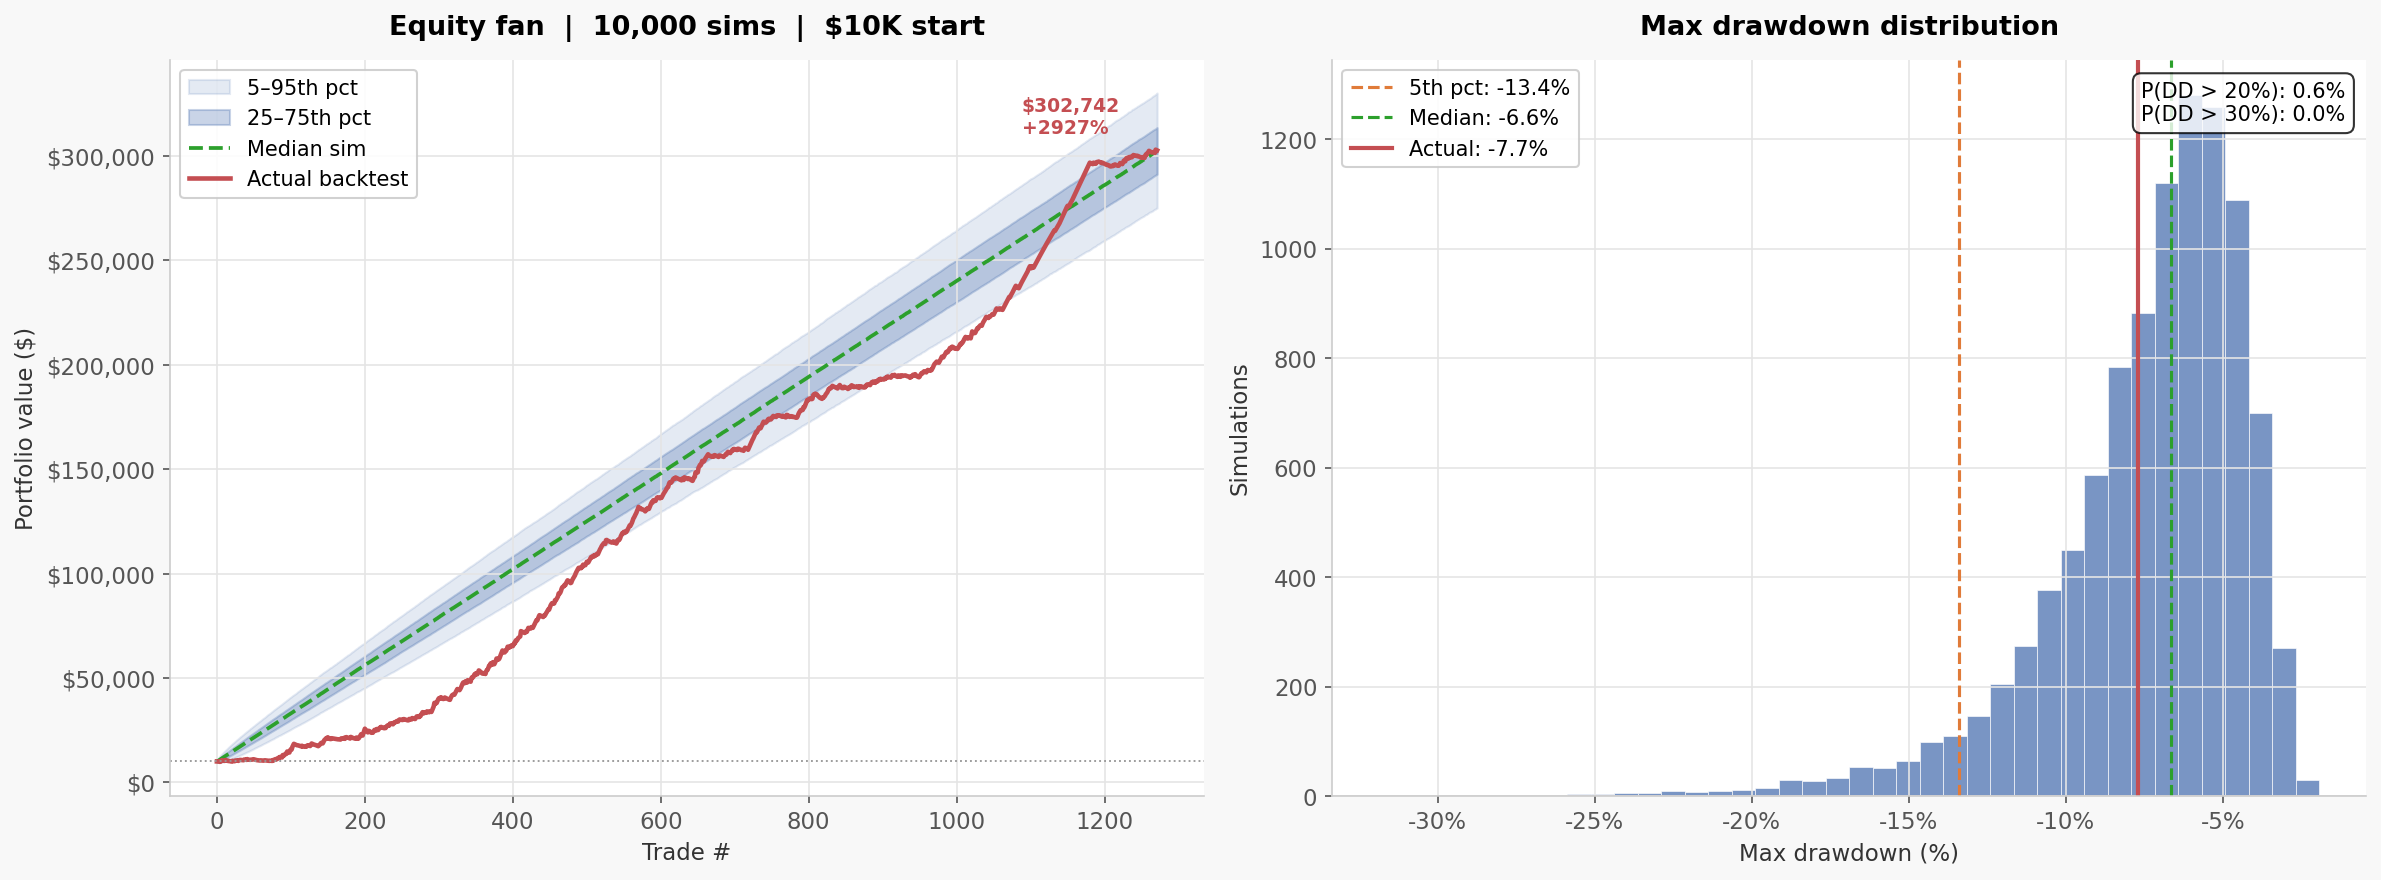
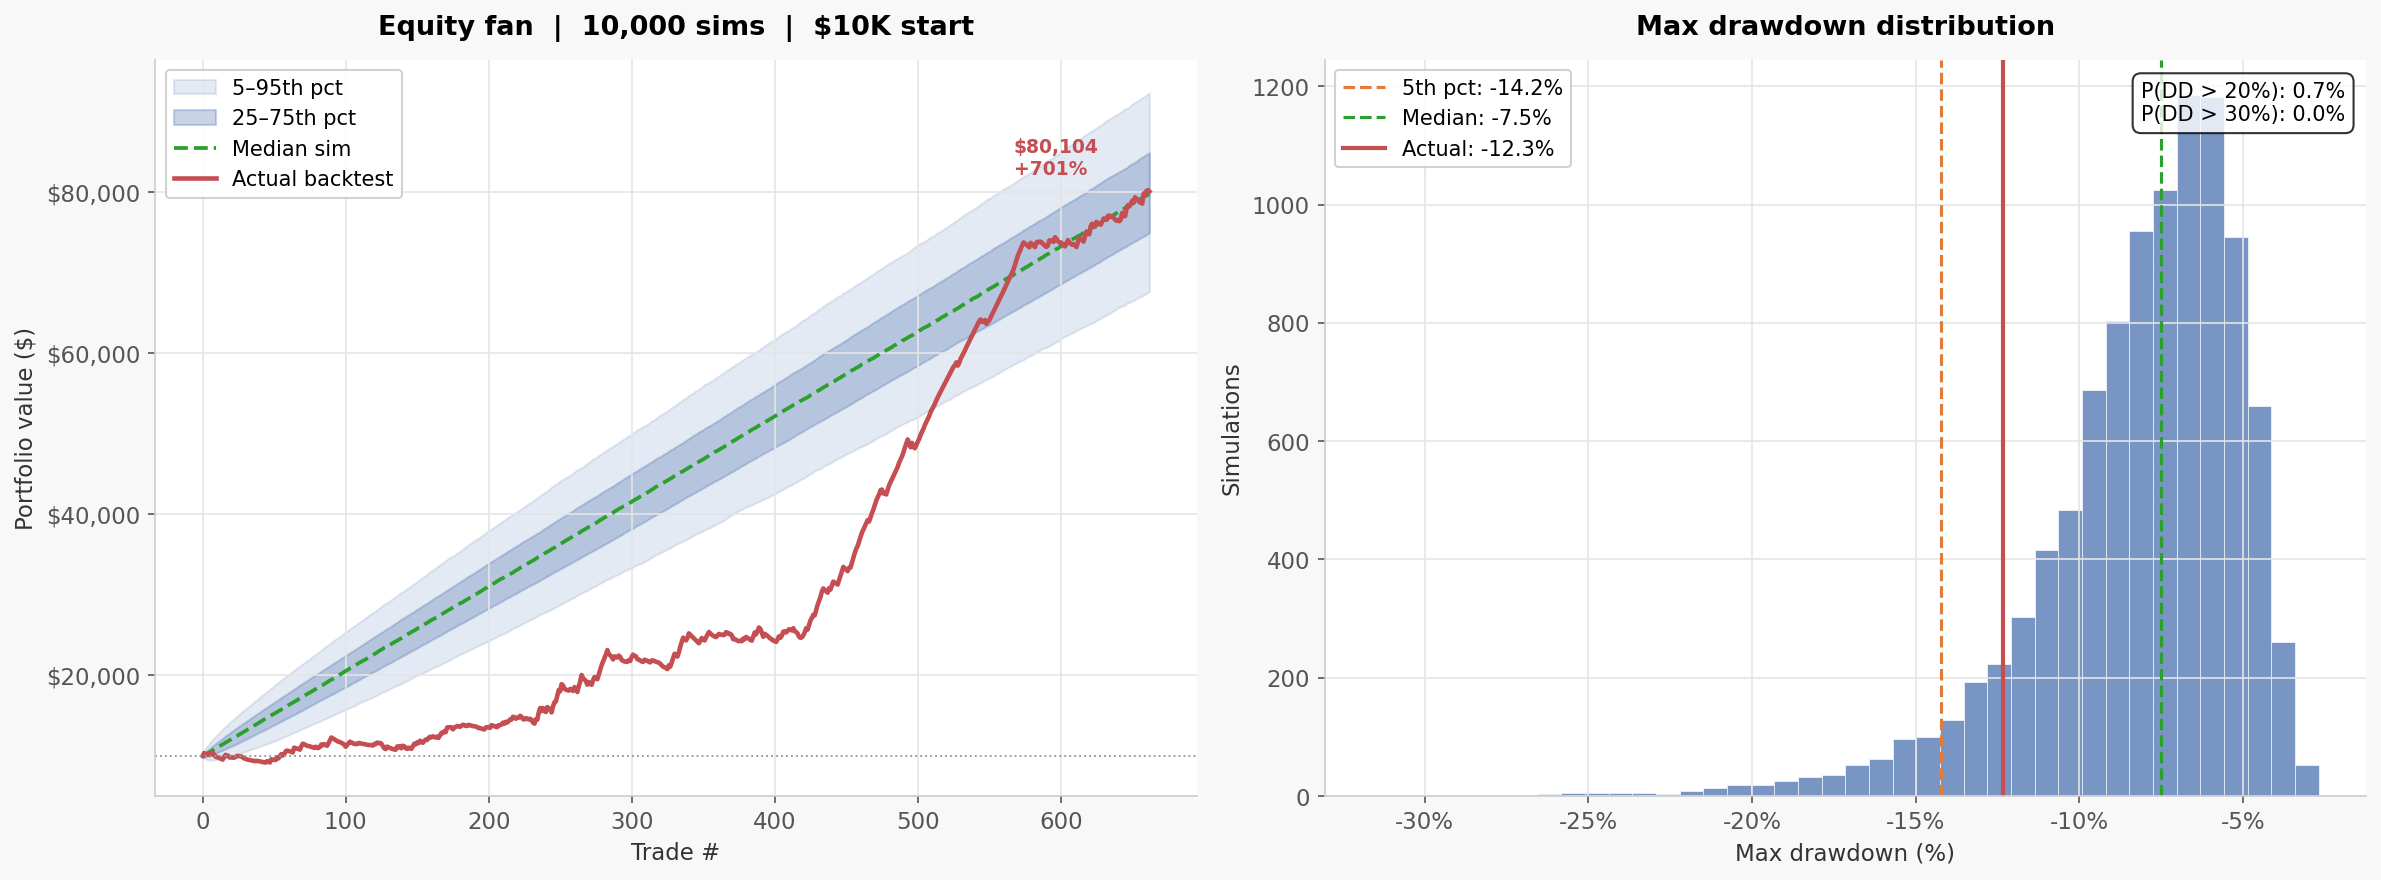
Add adverse-selection haircut to exit bids — fixes inflated backtest returns
Reported by @brandonmathewp: momentum_locked exits were priced from
DistModel.true_prob, which mechanically converges to 0/1 as hours_left→0
because vol_t = vol_h*sqrt(hours_left) → 0. Widening _exit_spread alone
didn't fix it — the exit bid was still ~$0.99 on any ITM contract in the
final minutes, making momentum_locked a 100%-WR profit factory that
carried the entire strategy in backtest.

Fix: new _exit_bid() applies an adverse-selection discount (up to 15%)
that grows as expiry nears AND as true_prob becomes extreme — the exact
regime where the old exit was fabricating profit. A real Kalshi maker
won't quote $0.98 on a 3-min-to-expiry ITM contract; a last-minute spot
move could still flip it. Intrabar-stop check also routes through
_exit_bid so stops fire on the same realistic price series.

Corrected 60-day backtest:
  Before: +2927% / Sharpe 7.09 / momentum_locked 506 trades @100% WR
  After:  +701%  / Sharpe 4.64 / momentum_locked 182 trades @100% WR
  Real edge survives; the previous headline was inflated ~4x.

diff --git a/kalshi_btc_backtest.py b/kalshi_btc_backtest.py
@@ -264,16 +264,37 @@ def _worst_spot(contract: dict, bar_close: float,
 
 
 def _exit_spread(true_p: float, hours_left: float) -> float:
-    """Bid/ask spread used to mark open positions to market. true_prob's
-    vol_t = vol_h * sqrt(hours_left) mechanically collapses to 0/1 as
-    hours_left -> 0, regardless of whether the model's drift/vol assumptions
-    are correct — there's no independent market price to disagree with it.
-    Real Kalshi liquidity thins out near settlement rather than vanishing, so
-    widen the spread as expiry nears instead of letting the model's own
-    certainty stand in for a realistic exit fill."""
+    """Bid/ask spread — widens near expiry to reflect thinning Kalshi
+    liquidity. NOT sufficient on its own to prevent model-priced exits
+    from looking artificially profitable — use _exit_bid() for that."""
     base  = 0.010 if true_p > 0.35 else 0.020 if true_p > 0.15 else 0.030
     widen = 1.0 + max(0.0, (0.25 - hours_left) / 0.25) * 2.0  # up to 3x inside final 15 min
     return base * widen
+
+
+def _exit_bid(true_p: float, hours_left: float) -> float:
+    """Realistic exit bid with adverse-selection haircut.
+
+    The straw-man `bid = true_p - spread/2` used to look profitable near
+    expiry only because DistModel.true_prob mechanically converges to 0/1
+    as vol_t = vol_h*sqrt(hours_left) -> 0. That's a math artifact, not a
+    market you can actually sell into: a Kalshi maker seeing "0.98 with
+    3 min left" won't post a $0.97 bid — a last-minute spot flip could still
+    flip it to $0. Real markets discount extreme, near-expiry model prices.
+
+    Haircut has two components:
+      tau_penalty: grows from 0 (hours >= 0.5) to ~1 at expiry
+      extremeness: 0 at true_p=0.5, 1 at true_p in {0, 1}
+    Applied jointly so the discount only bites when the model is BOTH
+    confident AND close to settlement — the exact regime where the old
+    exit price was fabricating profit.
+    """
+    spread      = _exit_spread(true_p, hours_left)
+    tau_penalty = max(0.0, min(1.0, (0.5 - hours_left) / 0.5))
+    extremeness = abs(true_p - 0.5) * 2.0
+    discount    = 0.15 * tau_penalty * extremeness   # up to 15%
+    bid         = true_p - spread / 2 - discount * true_p
+    return max(0.01, bid)
 
 
 # ─────────────────────────────────────────────
@@ -443,8 +464,7 @@ class BacktestPortfolio:
                 continue
 
             true_p = dist.true_prob(c, spot, vol, hours_left, regime)
-            spread = _exit_spread(true_p, hours_left)
-            bid    = max(0.01, true_p - spread / 2)
+            bid    = _exit_bid(true_p, hours_left)
             pos["bid_now"] = bid
             if bid > pos["peak"]:
                 pos["peak"] = bid
@@ -461,7 +481,7 @@ class BacktestPortfolio:
             worst = _worst_spot(c, spot, bar_high, bar_low)
             if worst != spot:
                 w_tp  = dist.true_prob(c, worst, vol, hours_left, regime)
-                w_bid = max(0.01, w_tp - _exit_spread(w_tp, hours_left) / 2)
+                w_bid = _exit_bid(w_tp, hours_left)
                 w_pnl = (w_bid - pos["entry"]) / pos["entry"] if pos["entry"] > 0 else 0
                 if w_pnl <= -C.STOP_LOSS_PCT:
                     # Stop triggered during the bar — record at actual stop price

diff --git a/README.md b/README.md
@@ -4,24 +4,24 @@ A live quantitative trading bot for Kalshi's KXBTC binary event markets, built a
 
 ---
 
-## Backtest Results (60-day walk-forward, May 24 – Jul 23 2026)
+## Backtest Results (60-day walk-forward, May 25 – Jul 23 2026)
 
 | Metric | Value |
 |--------|-------|
 | Starting capital | $10,000 |
-| Final capital | $302,742 |
-| Return | **+2,927%** |
-| Sharpe ratio | **7.09** (daily returns, annualized √365) |
-| Profit factor | 3.64 |
-| Max drawdown | -7.7% |
-| Trades | 1,271 |
-| Win rate | 52.7% |
-| Avg hold | 10 min |
-| Vol compression WR | **61.4%** vs 41.3% normal (82% of P&L from compression trades) |
+| Final capital | $80,104 |
+| Return | **+701%** |
+| Sharpe ratio | **4.64** (daily returns, annualized √365) |
+| Profit factor | 2.54 |
+| Max drawdown | -12.3% |
+| Trades | 662 |
+| Win rate | 42.7% |
+| Avg hold | 12 min |
+| Vol compression WR | **60.6%** vs 38.0% normal (83% of P&L from compression trades) |
 
-Backtest uses real BTC-USD 5-minute OHLCV from yfinance. Fills modeled at Kalshi's spread (widened dynamically near settlement to reflect thin end-of-hour liquidity). Intrabar stop simulation uses bar High/Low to replicate live polling. `SESSION_STOP_PCT` peak-drawdown breaker resets each day to model the live workflow (bot restarted per session). See [`docs/STRATEGY.md`](docs/STRATEGY.md) for the full math and audit.
+Backtest uses real BTC-USD 5-minute OHLCV from yfinance. Fills are model-priced from `DistModel.true_prob` with an **adverse-selection haircut** applied to exit bids: near expiry, when `true_prob` mechanically collapses toward 0/1, the exit bid is discounted (up to ~15%) to reflect the reality that Kalshi market-makers won't quote at the model's fair value on a "certain" contract that could still whipsaw. Without this haircut the backtest inflates ~4× (`momentum_locked` exits would price at ~$0.99 instead of ~$0.85). Intrabar stop simulation uses bar High/Low to replicate live polling. `SESSION_STOP_PCT` peak-drawdown breaker resets each day to model the live workflow (bot restarted per session). See [`docs/STRATEGY.md`](docs/STRATEGY.md) for the full math and audit.
 
-Dominant exit by P&L: `momentum_locked` (506 trades, 100% WR, +$370,339). Biggest drag: `stop_loss` (490 trades, -$78,717).
+Dominant exit by P&L: `momentum_locked` (182 trades, 100% WR, +$81,324). Biggest drag: `stop_loss` (272 trades, -$30,833).
 
 ---
 
